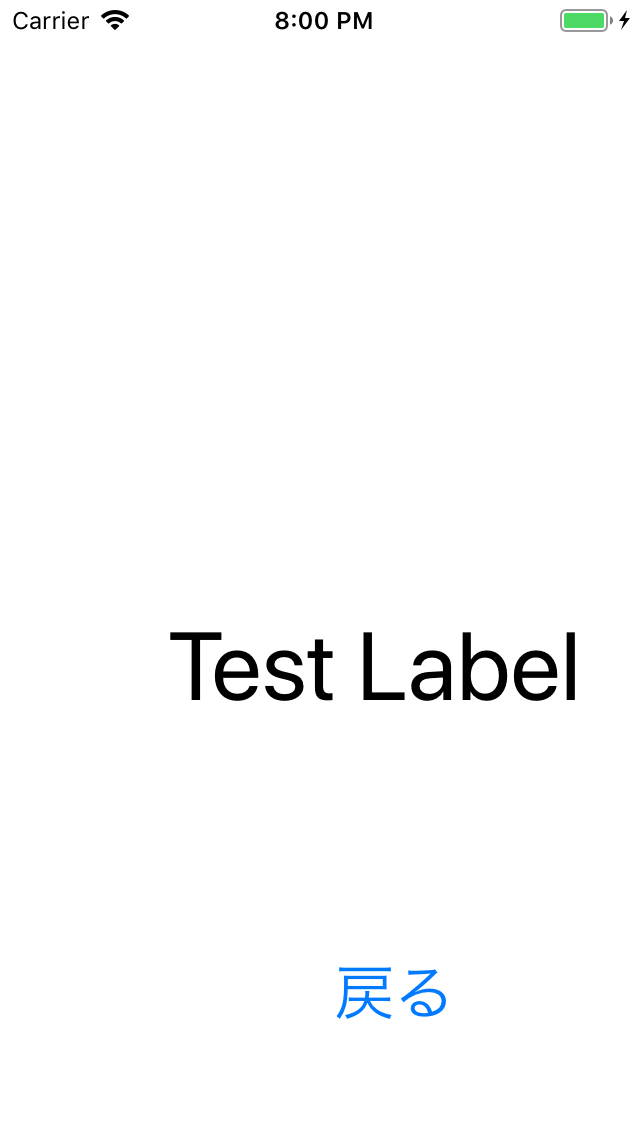
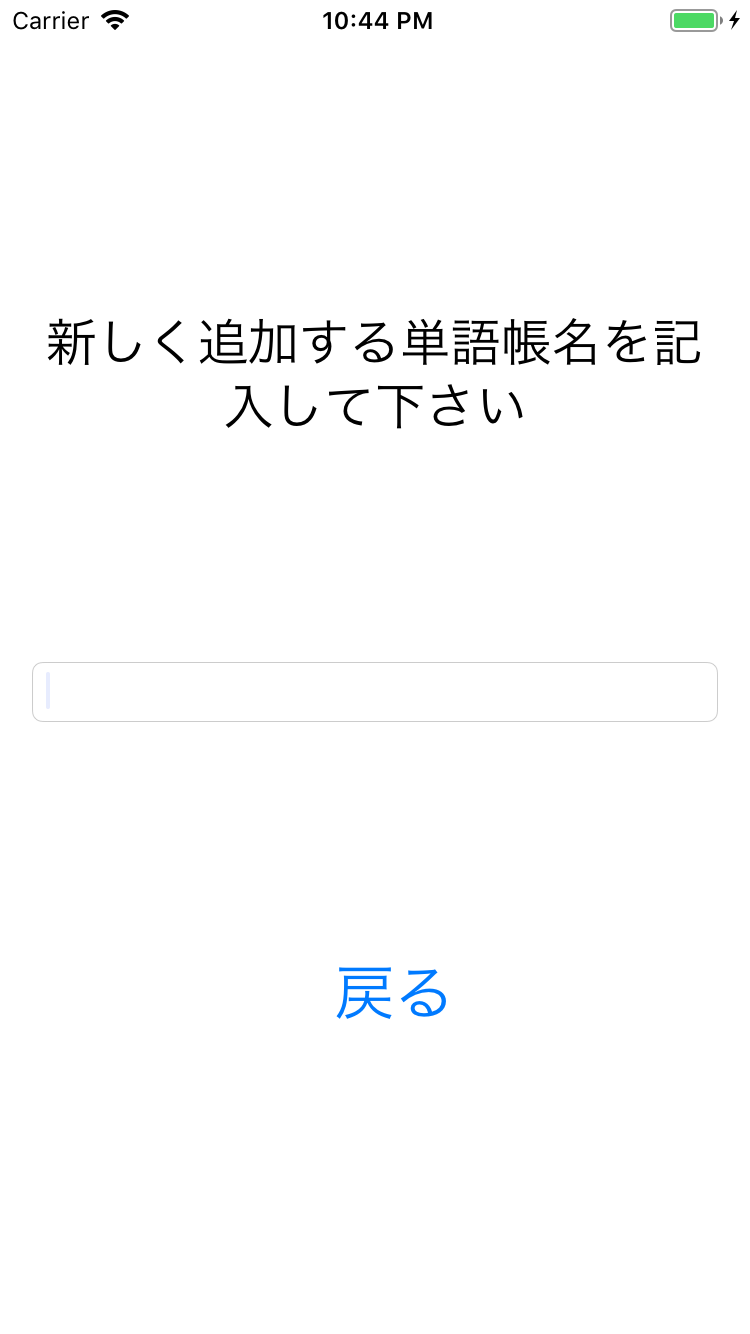
ハンズオン([iPhone] TextField のキーボードを閉じる方法を３つ)を参考にAddWorkNoteBookViewControllerに新規単語帳名入力テキストフィールドを追加

diff --git a/EnglishWords/EnglishWords/AddWordNoteBookViewController.swift b/EnglishWords/EnglishWords/AddWordNoteBookViewController.swift
@@ -9,14 +9,24 @@
 import Foundation
 import UIKit
 
-class AddWordNoteBookViewController: UIViewController {
+class AddWordNoteBookViewController: UIViewController, UITextFieldDelegate {
     
     @IBOutlet var label: UILabel!
+    @IBOutlet var textField: UITextField!
     
     override func viewDidLoad() {
         super.viewDidLoad()
         
-        label.text = "単語帳追加画面"
+        label.text = "新しく追加する単語帳名を記入して下さい"
+        
+        // textField の情報を受け取るための delegate を設定
+        textField.delegate = self
+    }
+    
+    func textFieldShouldReturn(_ textField: UITextField) -> Bool{
+        // キーボードを閉じる
+        textField.resignFirstResponder()
+        return true
     }
     
     override func didReceiveMemoryWarning() {
